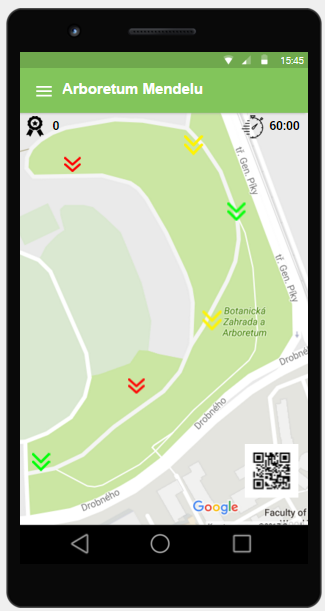
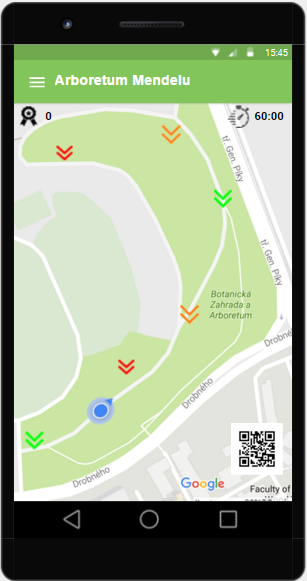
Push MapActivity changes

diff --git a/BusITWeek/app/src/main/java/cz/mendelu/busItWeek/MapActivity.java b/BusITWeek/app/src/main/java/cz/mendelu/busItWeek/MapActivity.java
@@ -3,6 +3,8 @@ package cz.mendelu.busItWeek;
 import android.content.DialogInterface;
 import android.content.Intent;
 import android.content.pm.PackageManager;
+import android.content.res.ColorStateList;
+import android.graphics.Color;
 import android.location.Location;
 import android.support.annotation.NonNull;
 import android.support.annotation.Nullable;
@@ -12,6 +14,7 @@ import android.os.Bundle;
 import android.support.v7.app.AlertDialog;
 import android.view.View;
 import android.widget.ImageButton;
+import android.widget.ProgressBar;
 import android.widget.TextView;
 
 import com.google.android.gms.common.ConnectionResult;
@@ -65,19 +68,26 @@ public class MapActivity extends FragmentActivity implements OnMapReadyCallback,
     private BeaconUtil beaconUtil;
     private ImageButton readQRCodeButton;
 
-    private TextView menuBar;
-    private Integer currentPoints;
+    private ProgressBar progressBar;
+    private TextView points;
+    private TextView timer;
 
     /**
      * Update the user's info in the top menubar of the application
      * @param points Integer The points the user currently has
      * @param progress Integer the amount of progress made in the storyline so far
      */
-    private void setUserInfo(Integer points, Integer progress) {
-        menuBar = (TextView) findViewById(R.id.user_info);
-        String text = String.format("%1$s: %2$i",
-                        R.string.points, currentPoints);
+    private void setUserInfo(Integer point, Integer progress) {
+        String text = "";
+        Integer currentPoints = 0;
 
+        try{
+            points.setText("30");
+            progressBar.setProgress(progress);
+            timer.setText("30:00"); // TODO: implement timer
+        }catch(Exception e) {
+            points.setText("ERROR: " + e.getMessage());
+        }
     }
 
     @Override
@@ -89,9 +99,13 @@ public class MapActivity extends FragmentActivity implements OnMapReadyCallback,
                 .findFragmentById(R.id.map);
         mapFragment.getMapAsync(this);
 
-        // Set the menubar values
-        menuBar = (TextView) findViewById(R.id.user_info);
+        // Get layout views
+        progressBar = (ProgressBar) findViewById(R.id.progress);
+        points = (TextView) findViewById(R.id.points);
+        timer = (TextView) findViewById(R.id.timer);
 
+        // Set the menubar values
+        setUserInfo(0, 40);
 
         storyLine = StoryLine.open(this, MyDemoStoryLineDBHelper.class);
 
